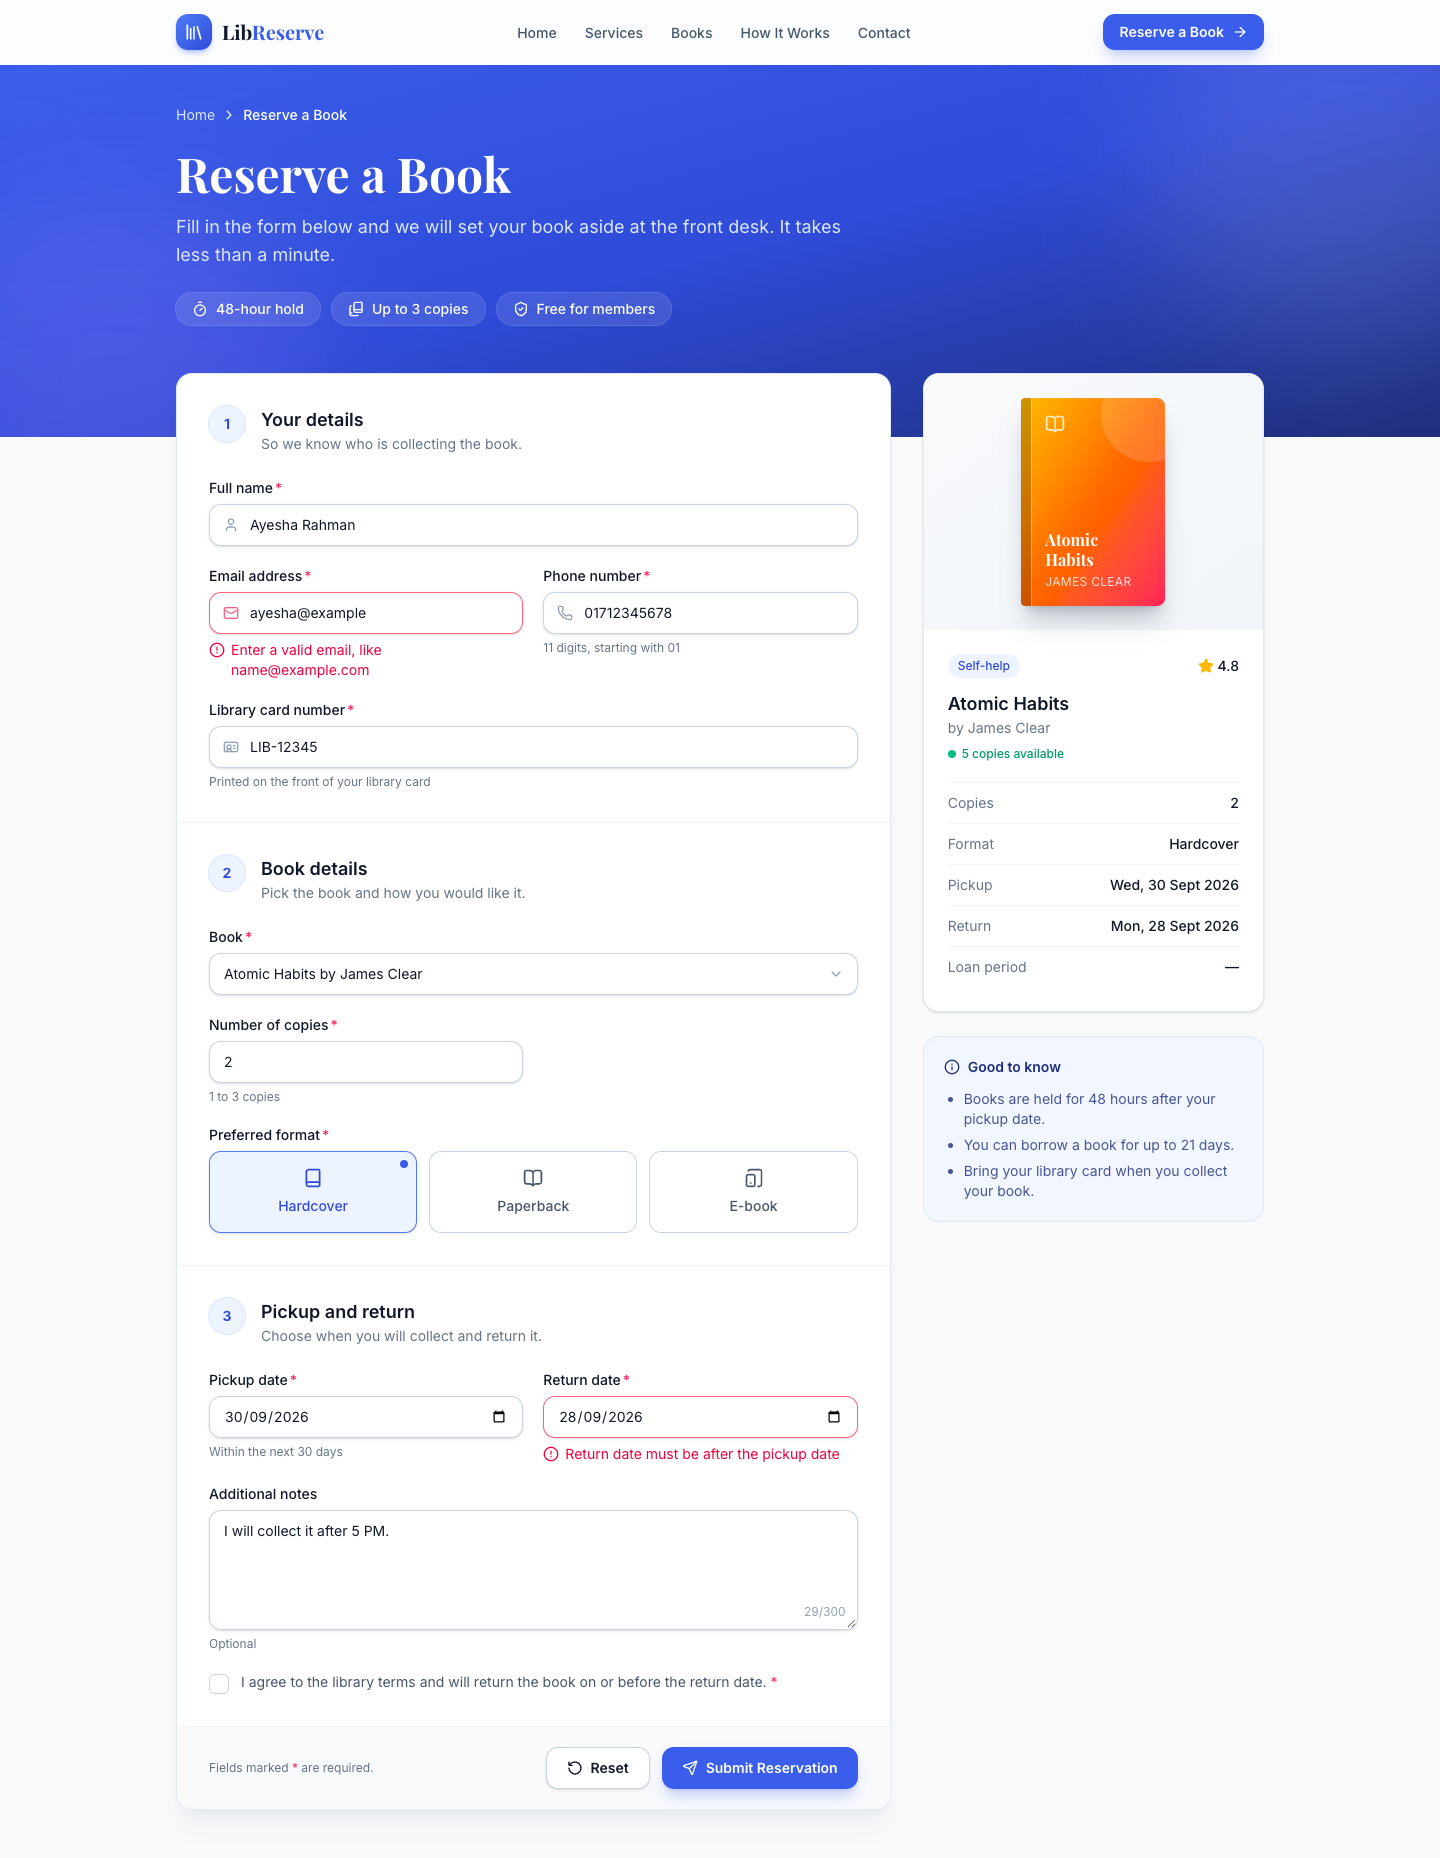
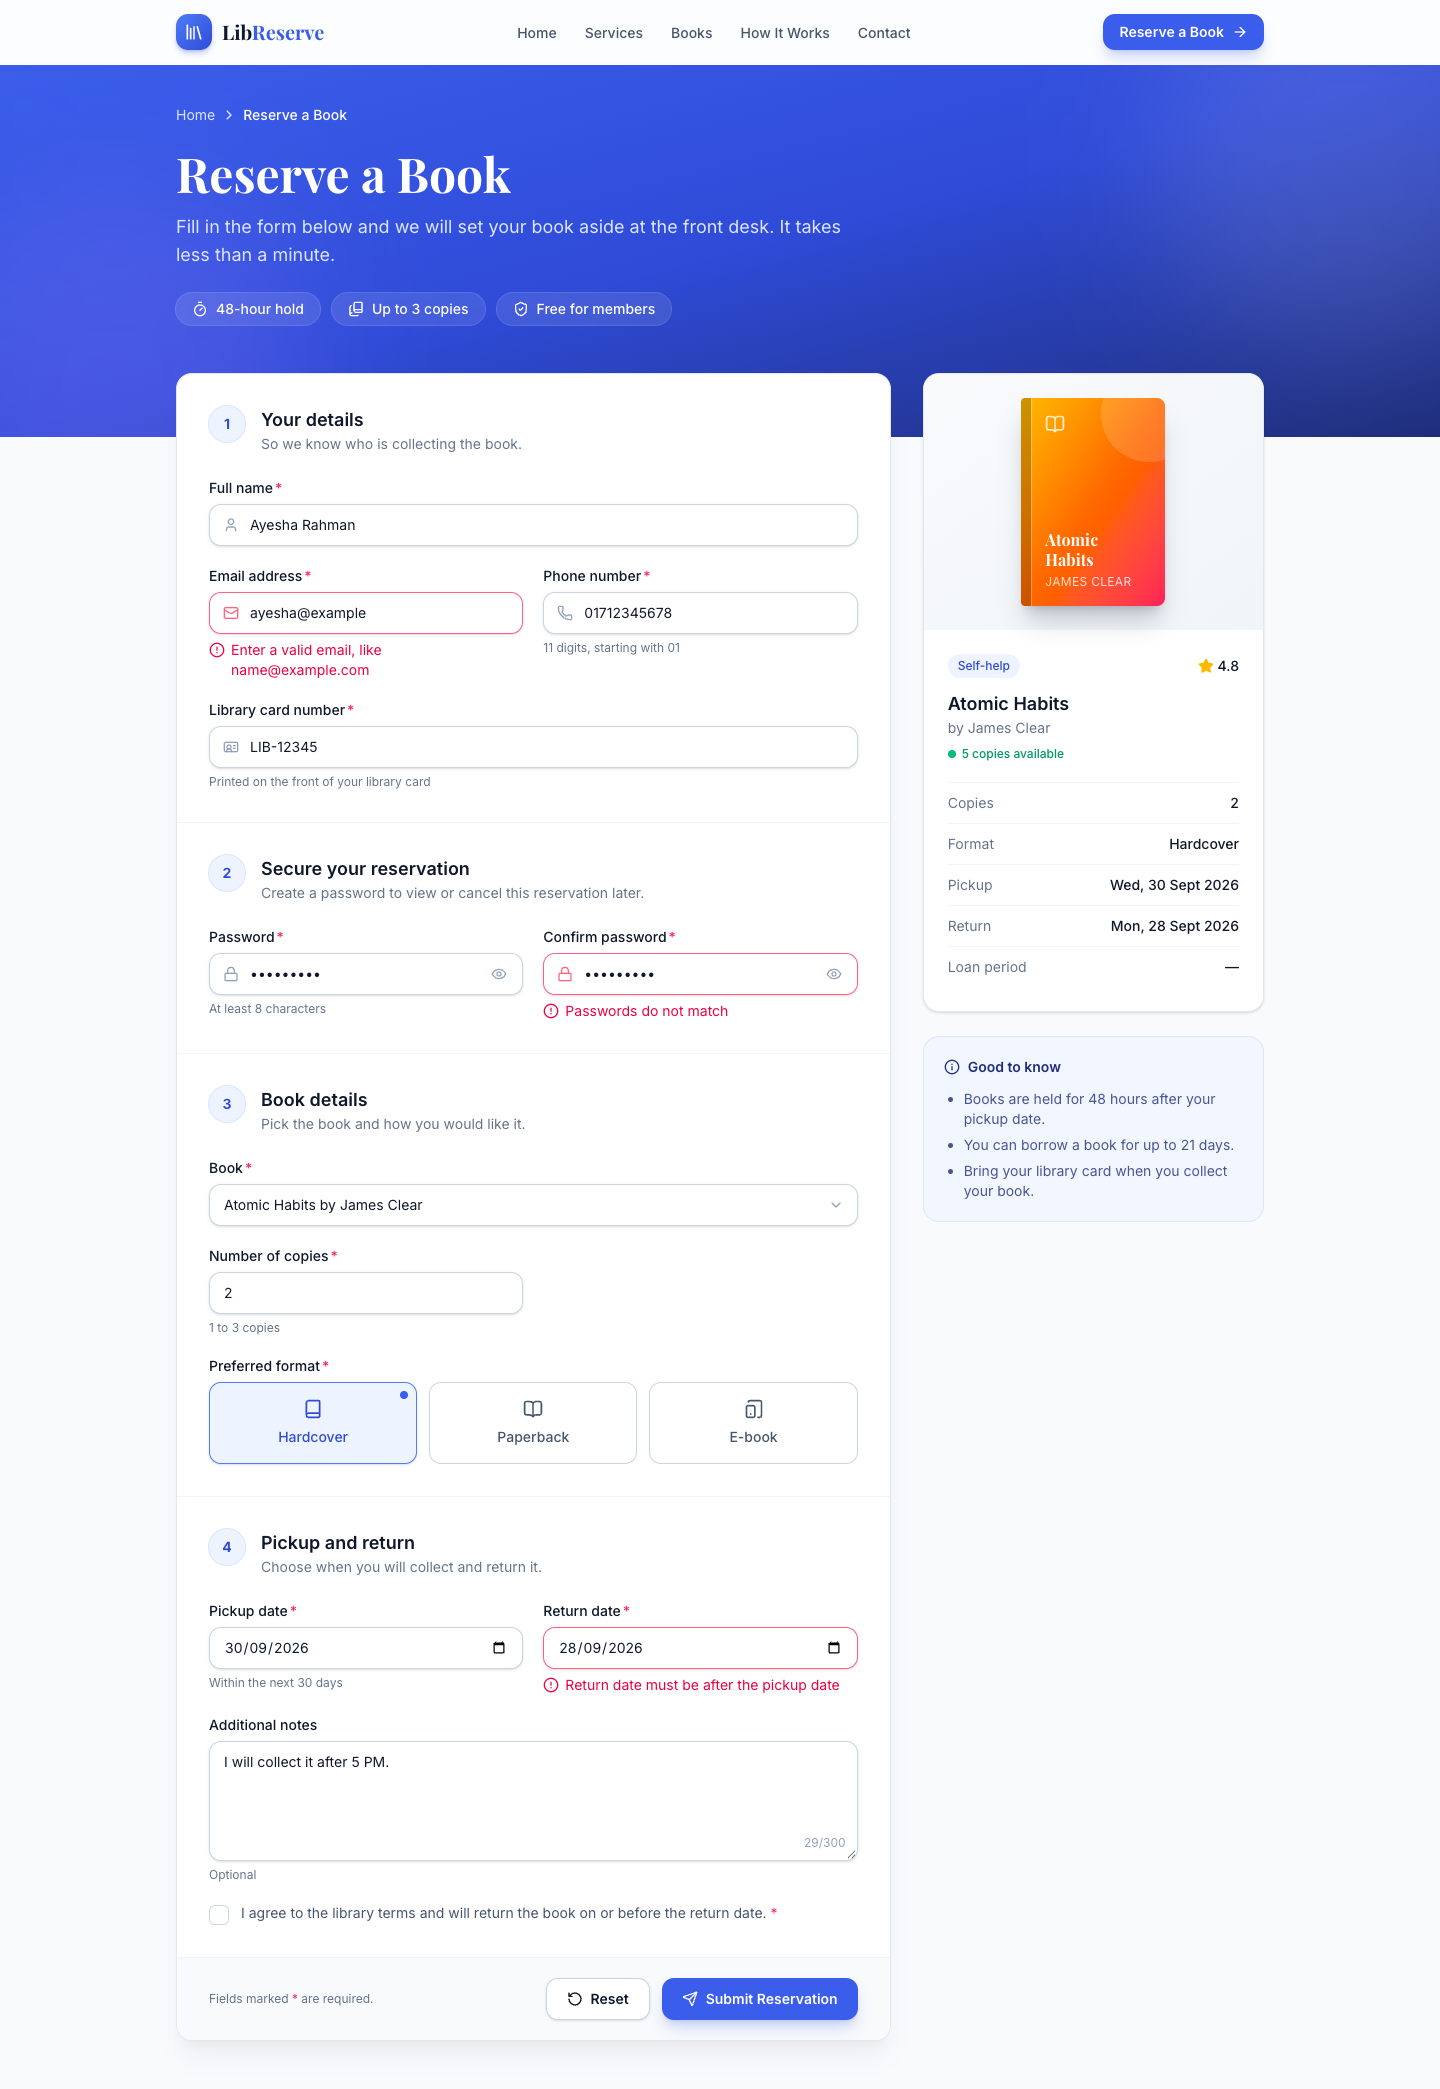
Add password step to reservation form
Introduces a new “Secure your reservation” step with password and confirm-password inputs, including a reusable PasswordInput component with show/hide toggle. Updates the reservation schema and defaults to validate minimum password length and enforce password match with field-level cross-validation behavior. The confirmation summary now explicitly avoids showing the password, and README/screenshots were refreshed to reflect the expanded 13-field, 4-step flow.

diff --git a/src/components/reserve/ReservationForm.jsx b/src/components/reserve/ReservationForm.jsx
@@ -17,6 +17,7 @@ import { addDays, today } from '../../utils/date.js'
 import Checkbox from '../form/Checkbox.jsx'
 import RadioCards from '../form/RadioCards.jsx'
 import SelectInput from '../form/SelectInput.jsx'
+import PasswordInput from '../form/PasswordInput.jsx'
 import TextArea from '../form/TextArea.jsx'
 import TextInput from '../form/TextInput.jsx'
 import Button from '../ui/Button.jsx'
@@ -144,7 +145,36 @@ export default function ReservationForm({ defaultBook = '', onSuccess }) {
           />
         </FormSection>
 
-        <FormSection step={2} title="Book details" description="Pick the book and how you would like it.">
+        <FormSection
+          step={2}
+          title="Secure your reservation"
+          description="Create a password to view or cancel this reservation later."
+        >
+          <PasswordInput
+            id="password"
+            label="Password"
+            required
+            placeholder="Create a password"
+            autoComplete="new-password"
+            hint="At least 8 characters"
+            registration={register('password', {
+              // If the confirmation is already filled in, re-check that it still matches
+              onChange: () => getValues('confirmPassword') && trigger('confirmPassword'),
+            })}
+            error={errors.password?.message}
+          />
+          <PasswordInput
+            id="confirmPassword"
+            label="Confirm password"
+            required
+            placeholder="Type it again"
+            autoComplete="new-password"
+            registration={register('confirmPassword')}
+            error={errors.confirmPassword?.message}
+          />
+        </FormSection>
+
+        <FormSection step={3} title="Book details" description="Pick the book and how you would like it.">
           <SelectInput
             id="book"
             label="Book"
@@ -181,7 +211,7 @@ export default function ReservationForm({ defaultBook = '', onSuccess }) {
           </div>
         </FormSection>
 
-        <FormSection step={3} title="Pickup and return" description="Choose when you will collect and return it.">
+        <FormSection step={4} title="Pickup and return" description="Choose when you will collect and return it.">
           <TextInput
             id="pickupDate"
             type="date"

diff --git a/src/components/form/PasswordInput.jsx b/src/components/form/PasswordInput.jsx
@@ -1,0 +1,38 @@
+import { Eye, EyeOff, Lock } from 'lucide-react'
+import { useState } from 'react'
+import Field from './Field.jsx'
+import { controlClasses, describedBy } from './styles.js'
+
+// A password field with a button that shows or hides what was typed.
+export default function PasswordInput({ id, label, required, hint, error, registration, className, ...inputProps }) {
+  const [visible, setVisible] = useState(false)
+
+  return (
+    <Field id={id} label={label} required={required} hint={hint} error={error} className={className}>
+      <div className="relative">
+        <Lock
+          className={`pointer-events-none absolute top-1/2 left-3.5 size-4 -translate-y-1/2 ${error ? 'text-rose-400' : 'text-slate-400'}`}
+          aria-hidden="true"
+        />
+        <input
+          id={id}
+          type={visible ? 'text' : 'password'}
+          className={`${controlClasses(error, true)} pr-11`}
+          aria-invalid={error ? true : undefined}
+          aria-describedby={describedBy(id, error, hint)}
+          {...registration}
+          {...inputProps}
+        />
+        <button
+          type="button"
+          onClick={() => setVisible((v) => !v)}
+          className="absolute top-1/2 right-2 grid size-8 -translate-y-1/2 place-items-center rounded-lg text-slate-400 transition hover:bg-slate-100 hover:text-slate-600 focus-visible:ring-2 focus-visible:ring-primary-300 focus-visible:outline-none"
+          aria-label={visible ? 'Hide password' : 'Show password'}
+          aria-pressed={visible}
+        >
+          {visible ? <EyeOff className="size-4" /> : <Eye className="size-4" />}
+        </button>
+      </div>
+    </Field>
+  )
+}

diff --git a/src/schemas/reservationSchema.js b/src/schemas/reservationSchema.js
@@ -34,6 +34,10 @@ const fields = z.object({
     .min(1, 'Library card number is required')
     .regex(/^LIB-\d{5}$/i, 'Card number must look like LIB-12345'),
 
+  password: z.string().min(1, 'Password is required').min(8, 'Password must be at least 8 characters'),
+
+  confirmPassword: z.string().min(1, 'Please confirm your password'),
+
   book: z
     .string()
     .min(1, 'Please choose a book')
@@ -71,9 +75,17 @@ const fields = z.object({
 const datesFilled = (payload) =>
   fields.pick({ pickupDate: true, returnDate: true }).safeParse(payload.value).success
 
+// Only compare the passwords once both have been typed.
+const passwordsFilled = (payload) => Boolean(payload.value?.password && payload.value?.confirmPassword)
+
 // Cross-field rules: they compare two fields, so they sit on the whole object.
 // Without `when`, Zod would skip them until every other field was valid.
 export const reservationSchema = fields
+  .refine((data) => data.password === data.confirmPassword, {
+    message: 'Passwords do not match',
+    path: ['confirmPassword'],
+    when: passwordsFilled,
+  })
   .refine((data) => data.returnDate > data.pickupDate, {
     message: 'Return date must be after the pickup date',
     path: ['returnDate'],
@@ -90,6 +102,8 @@ export const emptyReservation = {
   email: '',
   phone: '',
   cardNumber: '',
+  password: '',
+  confirmPassword: '',
   book: '',
   copies: 1,
   pickupDate: '',

diff --git a/src/components/reserve/ReservationSuccess.jsx b/src/components/reserve/ReservationSuccess.jsx
@@ -82,6 +82,8 @@ export default function ReservationSuccess({ data, onNewReservation }) {
             <SummaryItem label="Return date" value={formatDate(data.returnDate)} />
             <SummaryItem label="Loan period" value={`${days} day${days === 1 ? '' : 's'}`} />
             <SummaryItem label="Terms" value="Accepted" />
+            {/* Never show the password itself */}
+            <SummaryItem label="Password" value="Set (hidden for your security)" />
             {data.notes && <SummaryItem label="Notes" value={data.notes} wide />}
           </dl>
         </div>

diff --git a/README.md b/README.md
@@ -27,13 +27,13 @@ Cards for popular books, each with a cover, genre, rating, short description, li
 
 ### 3. Reservation form
 
-An 11-field form in three numbered steps, with a live preview of the chosen book beside it. Errors appear directly under the field they belong to. In this screenshot, an invalid email and a return date set before the pickup date are both flagged.
+A 13-field form in four numbered steps, with a live preview of the chosen book beside it. Errors appear directly under the field they belong to. In this screenshot, three problems are flagged: an invalid email, a confirmation password that doesn't match, and a return date set before the pickup date.
 
 ![Reservation form showing validation errors](docs/screenshots/3-reservation-form.png)
 
 ### 4. Reservation confirmed
 
-After a valid submission, a success toast appears and the form is replaced by a confirmation with an animated tick, a reference number, and a summary of everything the user entered.
+After a valid submission, a success toast appears and the form is replaced by a confirmation with an animated tick, a reference number, and a summary of everything the user entered. The password is never shown; the summary only says it was set.
 
 ![Reservation confirmation with summary](docs/screenshots/4-reservation-confirmed.png)
 
@@ -115,13 +115,13 @@ Introduces the library to a first-time visitor.
 
 Collects a book reservation request from the user. The page has three parts:
 
-1. **The form**: 11 fields in three numbered sections (Your details, Book details, Pickup and return).
+1. **The form**: 13 fields in four numbered sections (Your details, Secure your reservation, Book details, Pickup and return).
 2. **A live preview sidebar**: shows the chosen book's cover, availability, and the dates and loan period as you type.
 3. **A success screen**: replaces the form after a valid submission, with an animated tick, a reference number, and a summary of everything entered.
 
 Clicking **Reserve** on a book card on the Home page opens `/reserve?book=<id>`, which pre-selects that book.
 
-**Fields (11 fields, 9 input types):**
+**Fields (13 fields, 10 input types):**
 
 | Field                  | Input type | Rules                                                         |
 | ---------------------- | ---------- | ------------------------------------------------------------- |
@@ -129,6 +129,8 @@ Clicking **Reserve** on a book card on the Home page opens `/reserve?book=<id>`,
 | Email                  | `email`    | Required, valid email format                                  |
 | Phone Number           | `tel`      | Required, 11 digits starting with `01` (e.g. `01712345678`)   |
 | Library Card Number    | `text`     | Required, format `LIB-12345`                                  |
+| Password               | `password` | Required, at least 8 characters                               |
+| Confirm Password       | `password` | Required, **must match the password**                         |
 | Book                   | `select`   | Required, must be a book from the catalogue                   |
 | Number of Copies       | `number`   | Required, whole number from 1 to 3                            |
 | Preferred Format       | `radio`    | Hardcover, Paperback, or E-book                               |
@@ -141,8 +143,12 @@ Clicking **Reserve** on a book card on the Home page opens `/reserve?book=<id>`,
 
 - **Required fields**: every required field shows its own "… is required" message.
 - **Email format**: checked with Zod's `.email()`.
-- **Pattern / length rules**: regex patterns for the phone number, library card number, and name; length limits for the name and notes.
-- **Cross-field rules**: the Return Date must be after the Pickup Date, and the loan can be at most 21 days. Both use `.refine()` on the whole object with `path: ['returnDate']`, so the error appears under the Return Date field. The `when` option lets these rules run as soon as both dates are filled in, even while other fields still have errors.
+- **Pattern / length rules**: regex patterns for the phone number, library card number, and name; a minimum length of 8 for the password; length limits for the name and notes.
+- **Cross-field rules**:
+  - Confirm Password must match Password (error shown under Confirm Password).
+  - Return Date must be after Pickup Date, and the loan can be at most 21 days (errors shown under Return Date).
+
+  Each rule uses `.refine()` on the whole object with a `path` that puts the error under the right field. The `when` option lets these rules run as soon as both fields are filled in, even while other fields still have errors. Changing the password or pickup date re-checks the field that depends on it.
 
 **Behaviour:**
 
@@ -208,6 +214,7 @@ library-reservation/
     │   │   ├── TextArea.jsx    # With character counter
     │   │   ├── RadioCards.jsx
     │   │   ├── Checkbox.jsx
+    │   │   ├── PasswordInput.jsx     # With show/hide toggle
     │   │   └── styles.js       # Shared input classes and ARIA helper
     │   └── reserve/        # Parts of the Reservation page
     │       ├── ReserveHeader.jsx
